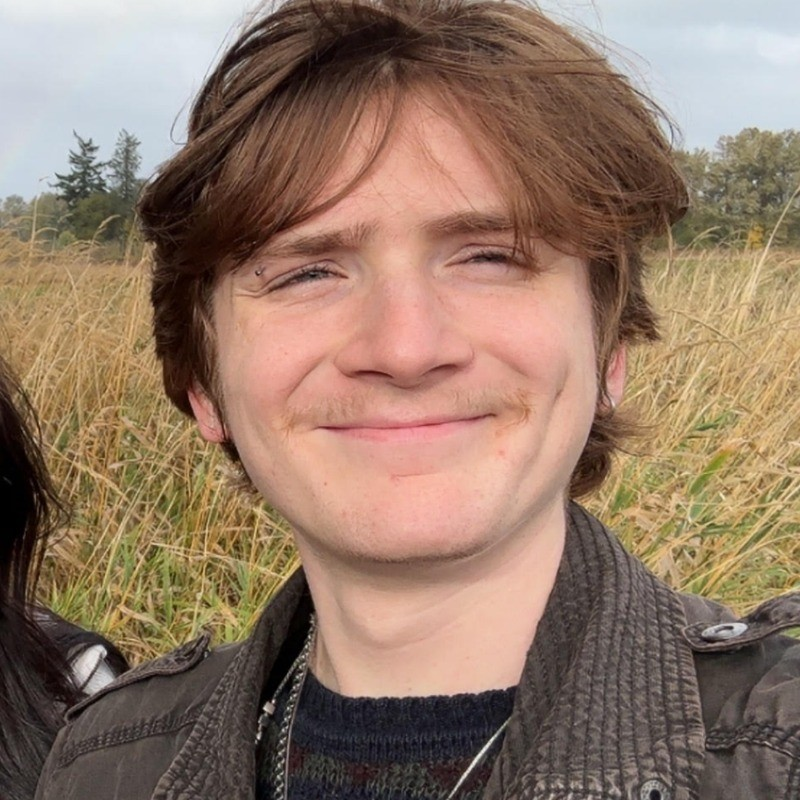
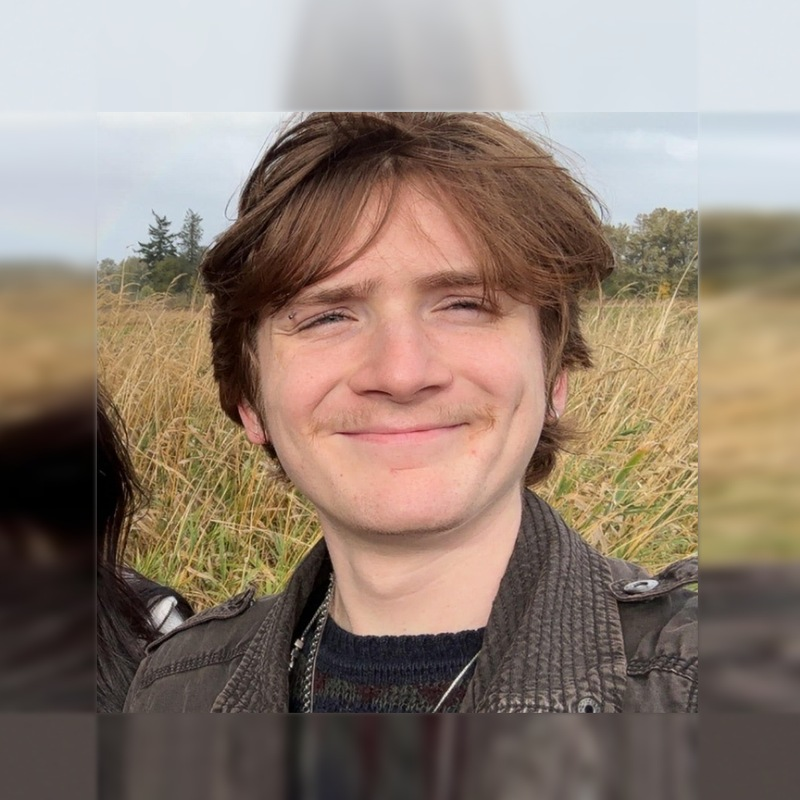
Center Darwin's headshot.

diff --git a/team.html b/team.html
@@ -112,7 +112,7 @@
 
                 <div class="profile">
                     <div class="profile-image">
-                        <img src="/media/images/darwinpfp.jpg" alt="Darwin Greenvoss" loading="lazy" style="width: 240px; object-fit: cover;">
+                        <img src="/media/images/darwinpfp.jpg" alt="Darwin Greenvoss" loading="lazy" style="width: 240px; height: 240px; object-fit: cover; object-position: center center;">
                     </div>
                     <h2 class="name">Darwin Greenvoss</h2>
                     <h3 class="role">CTF Mentor</h3>
